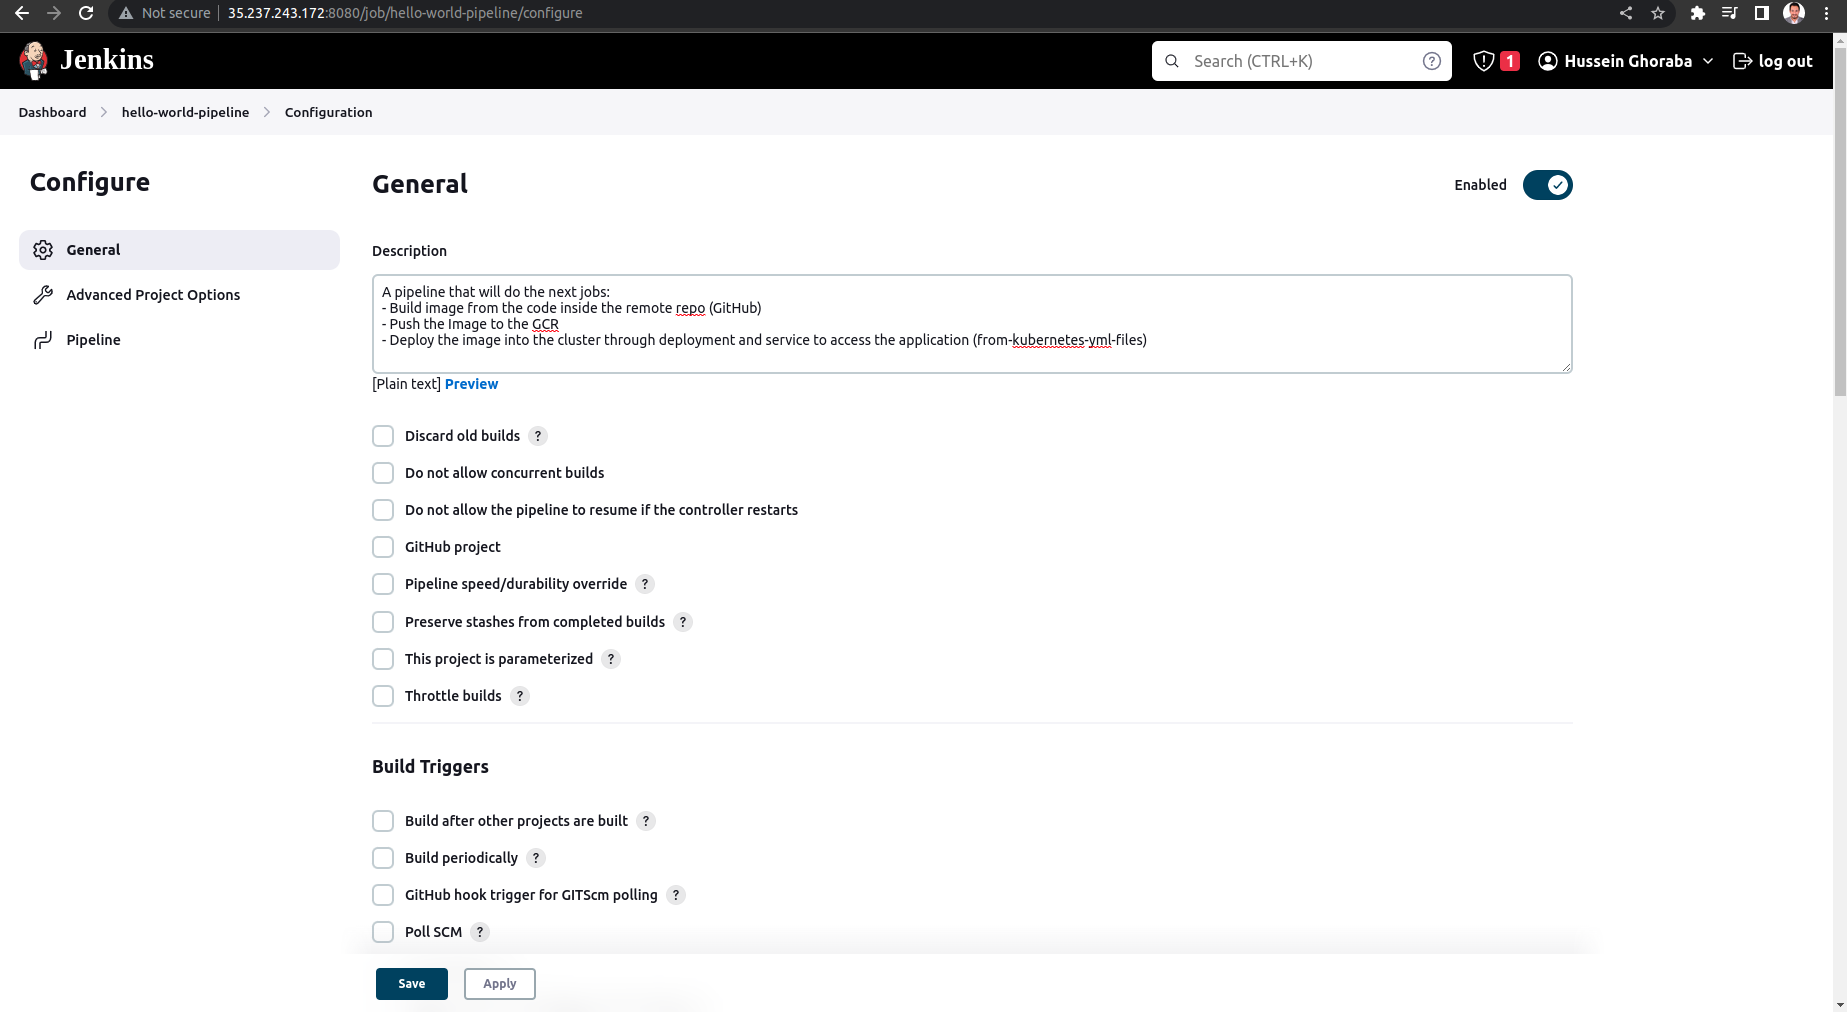
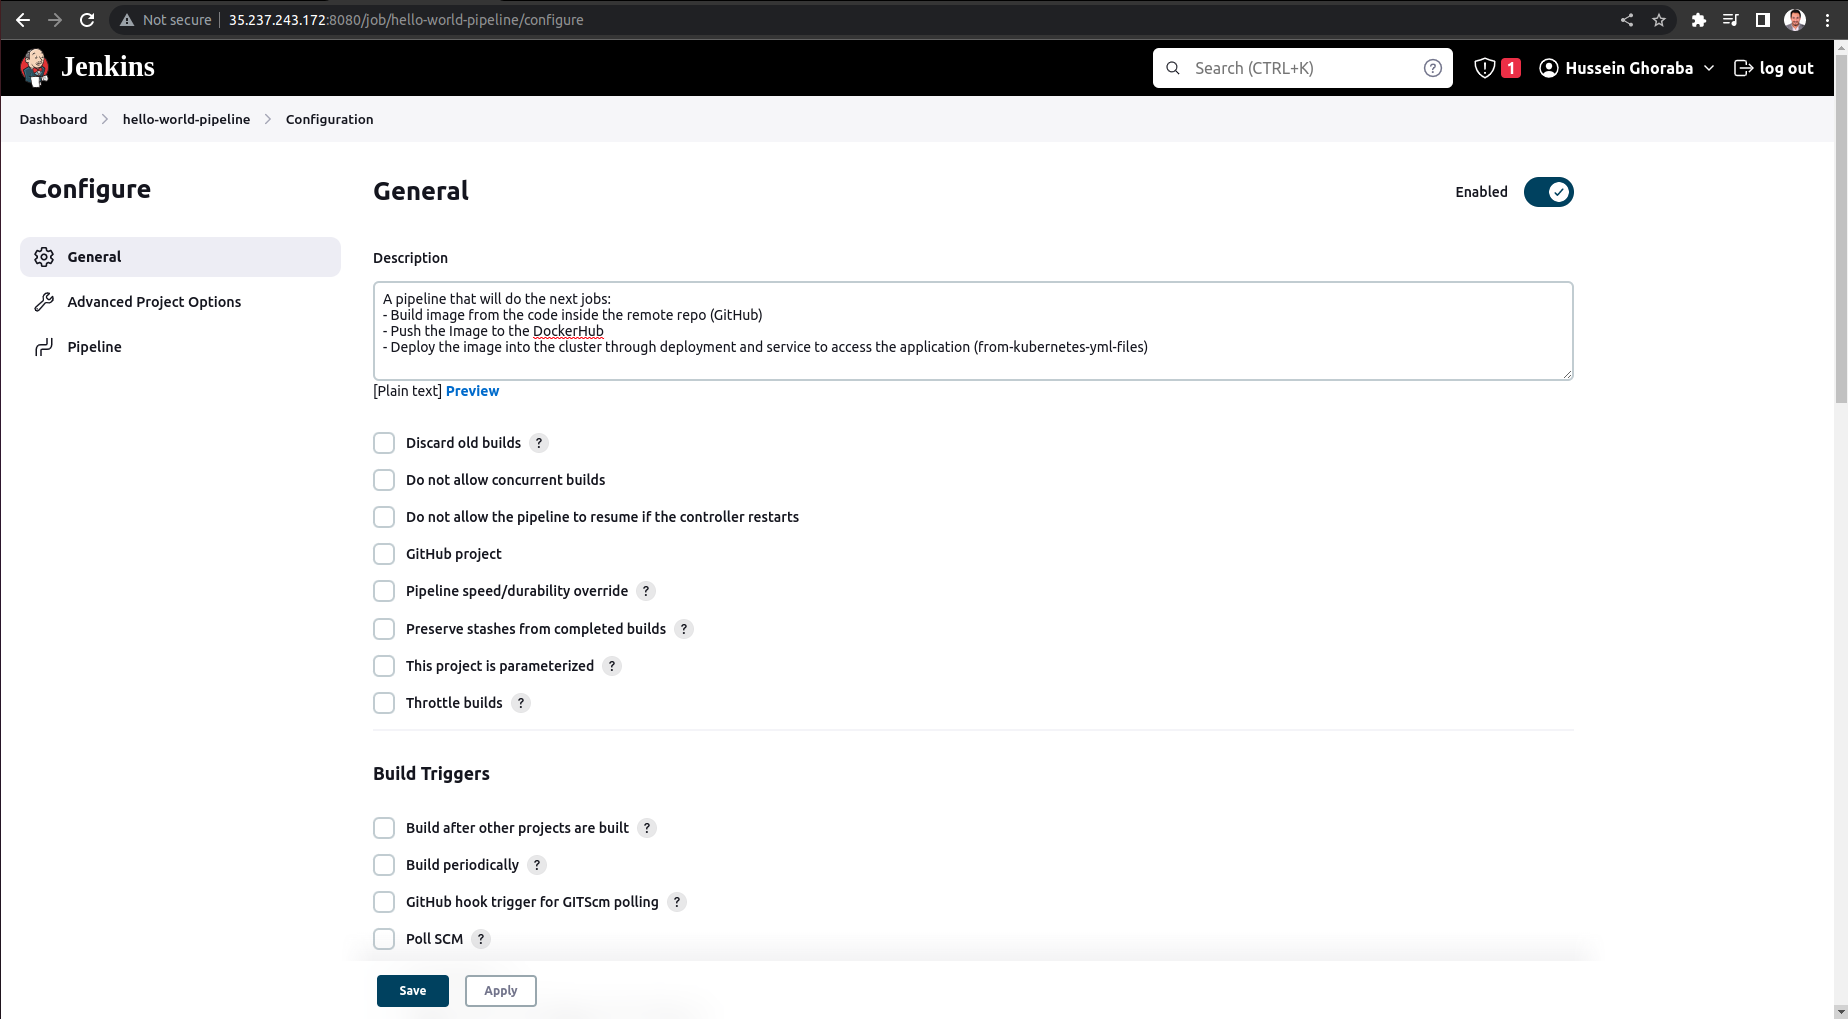
Last Technical Touch

diff --git a/README.md b/README.md
@@ -358,55 +358,107 @@ chown jenkins:jenkins /var/run/docker.soc
 
 ### --------------------------------------------------
 ### 5- Finally we are in the final step in which we will create `pipeline` which will auto `Build&Deploy` the code inside the application repo:
-> 1- Add credentials od the DockerHub into Jenkins server : 06-create-credentials-of-dockerHub
+> 1- Add credentials od the DockerHub into Jenkins server : 
 
 >> 1-1 The same steps of creating credentials of jenkins-user but here you should add your username and password of dockerhub account:
+
 >>> go to `manage jenkins` - `manage credentials` - `global` then `+ Add new credentials` and choose `Username and password credentials` and fullfill the requires as i explained before 
 
-<img src="images/deploy-app/01-create-piepline.png" width=400 >
+<img src="images/deploy-app/00-create-credentials-with-dockerHub-account.png" width=400 >
 
-> 2- Configure the pod to deploy pods in the cluster:
+> 2- Configure the cluster inside the pod for deploying the new apps:
 
->> 2-1 go to the terminal in which the VM-Instance is opened and get into the terminal of the jenkins-slave-pod:
+>> 2-1 connect to the pod 
+```
+kubectl exec --stdin --tty <pod-name> -n jenkins -- /bin/bash 
+```
+>> 2-2 install gcloud inside the pod: "follow the next steps"
+```
+export CLOUD_SDK_REPO="cloud-sdk-$(lsb_release -c -s)"
+```
+```
+echo "deb http://packages.cloud.google.com/apt $CLOUD_SDK_REPO main" | tee -a /etc/apt/sources.list.d/google-cloud-sdk.list
+```
+```
+curl https://packages.cloud.google.com/apt/doc/apt-key.gpg | apt-key add -
+```
+```
+apt update && apt install -y google-cloud-sdk
+```
+
+>> 2-2 Switch to jenkins user and  follow the next steps to authenticate the gcloud within the user and then configure cluster with the user profile:
 ```
 su jenkins
 ```
->> 2-2 add this command 
+```
+gcloud auth login
+```
+then press `Y` and finish the authentication and get the code of vertification and then configure the project
+```
+gcloud config set project <PROJECT_ID>
+```
+configure the cluster within jenkins user
+```
+gcloud container clusters get-credentials python-cluster --zone <your-added-preferred-zone> --project <your-project-id>
+```
+get out of the jenkins user and you will be switched to the root user
+```
+exit
+```
+`"Optional"` Install envsubst in case you are versioning your image while building and you are using "BUILD_NUMBER" for this purpose
+```
+apt-get install gettext-base
+```
+get out of the slave-pod
+```
+exit
+```
+
+<img src="images/deploy-app/07-configure-the-python-cluster-to-user-jenkins-in-slave-pod" width=400 >
+
+>> 2-2 add this command 	
 ```
 gcloud container clusters get-credentials <your-cluster-name> --zone <your-entered-prefered-zone> --project <your-project-id>
 ```
 
-> 3- Create an Item "Pipeline" from the jenkins server as follow:
+> 3- Create namespace `dev` in which your deployment will be:
+>>3-1 on the opened terminal of the VM
+
+```
+kubectl create ns dev
+```
+
+> 4- Create an Item "Pipeline" from the jenkins server as follow:
 
 <img src="images/deploy-app/01-create-piepline.png" width=400 >
 
 <img src="images/deploy-app/02-create-piepline.png" width=400 >
 
->> 3-1- in section `Description` ------`"Optional"`
+>> 4-1- in section `Description` ------`"Optional"`
 ```
 A pipeline that will do the next jobs:
 - Build image from the code inside the remote repo (GitHub) 
-- Push the Image to the GCR
+- Push the Image to the DockerHub
 - Deploy the image into the cluster through deployment and service to access the application (from-kubernetes-yml-files)
 ```
->> 3-2- in section `Pipeline`
->>> 3-2-1- in section `Definition`:
+>> 4-2- in section `Pipeline`
+>>> 4-2-1- in section `Definition`:
 ```
 Choose: Pipeline script from SCM
 ```
->>> 3-2-2- in section `SCM` 
+>>> 4-2-2- in section `SCM` 
 ```
 Choose: Git
 ```
->>>> 3-2-2-1- in section `Repository URL`:
+>>>> 4-2-2-1- in section `Repository URL`:
 ```
 <Add link of your repository> -- for me i added this as this has the requirements of the project <https://github.com/HusseinGhoarba/FP-Application-GCP>
 ```
->>>> 3-2-2-1- in section `Branches to build`:
+>>>> 4-2-2-1- in section `Branches to build`:
 ```
 <add the name of the branch that has your application> -- in my case <./main>
 ```
->>> 3-2-3- in section `Script Path`
+>>> 4-2-3- in section `Script Path`
 ```
 <add the name of your script file> but it's common to use the name of the script file as "Jenkinsfile" and that what i use.
 ```
@@ -420,11 +472,42 @@ Choose: Git
 
 <img src="images/deploy-app/05-pipeline-configurations.png" width=400 >
 
+
+> 5- Build now your pipeline:
+
+>> 5-1 from the left tap inside the pipeline we created press on build-now
+
+<img src="images/deploy-app/08-build-now.png" width=400 >
+
+<img src="images/deploy-app/09-console-output-of-building.png" width=400 >
+
+<img src="images/deploy-app/10-console-output-of-building.png" width=400 >
+
+<img src="images/deploy-app/11-console-output-of-building.png" width=400 >
+
+>> 5-2 from the terminal of the VM-instance:
+```
+kubectl get po -n dev
+```
+```
+kubectl get svc -n dev
+```
+
+<img src="images/deploy-app/12-get-svc-and-po-of-new-app.png" width=400 >
+
+>> 5-3 get the ip address:
+
+<img src="images/deploy-app/13-get-the-ip-address-that-will-let-us-access-app.png" width=400 >
+
+>> 5-4 get access to the web-site
+
+<img src="images/deploy-app/14-access-the-static-web-site-app.png" width=400 >
+
 ### --------------------------------------------------
 ### Finally: 
-***I want to THANK YOU & If there is any problem don't hesitate to send to me***
+> **I want to THANK YOU & If there is any problem don't hesitate to send to me**
 ### --------------------------------------------------
 ### Project Contributers:
-|![Hussein Ghoraba](images/hussein.jpg)|
+|![Hussein Ghoraba](images/hussein-ghoraba.jpeg)|
 |:-----------------:|
 |[Hussein Ghoraba](https://github.com/HusseinGhoarba)|
